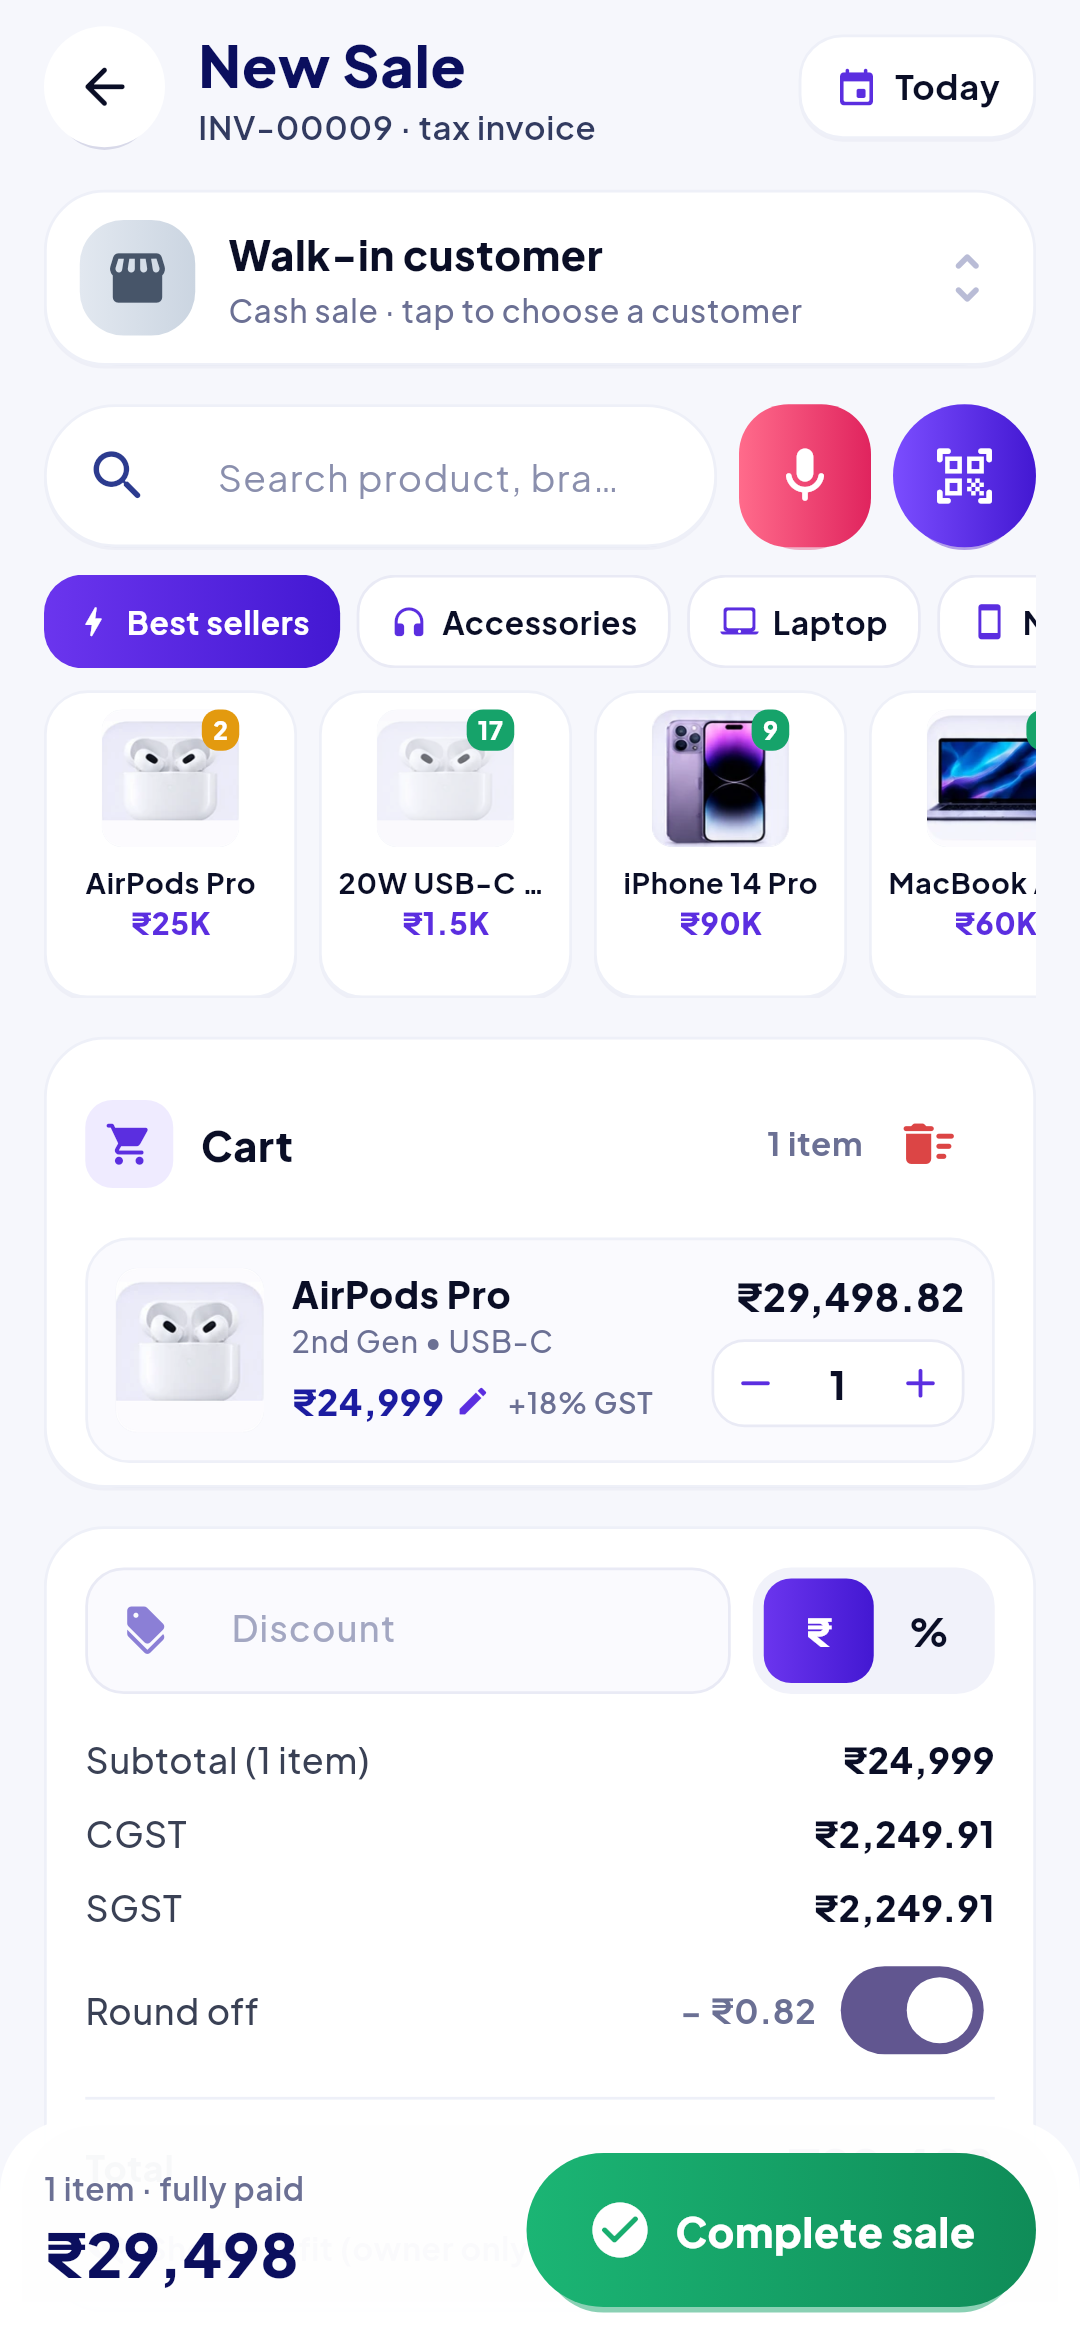
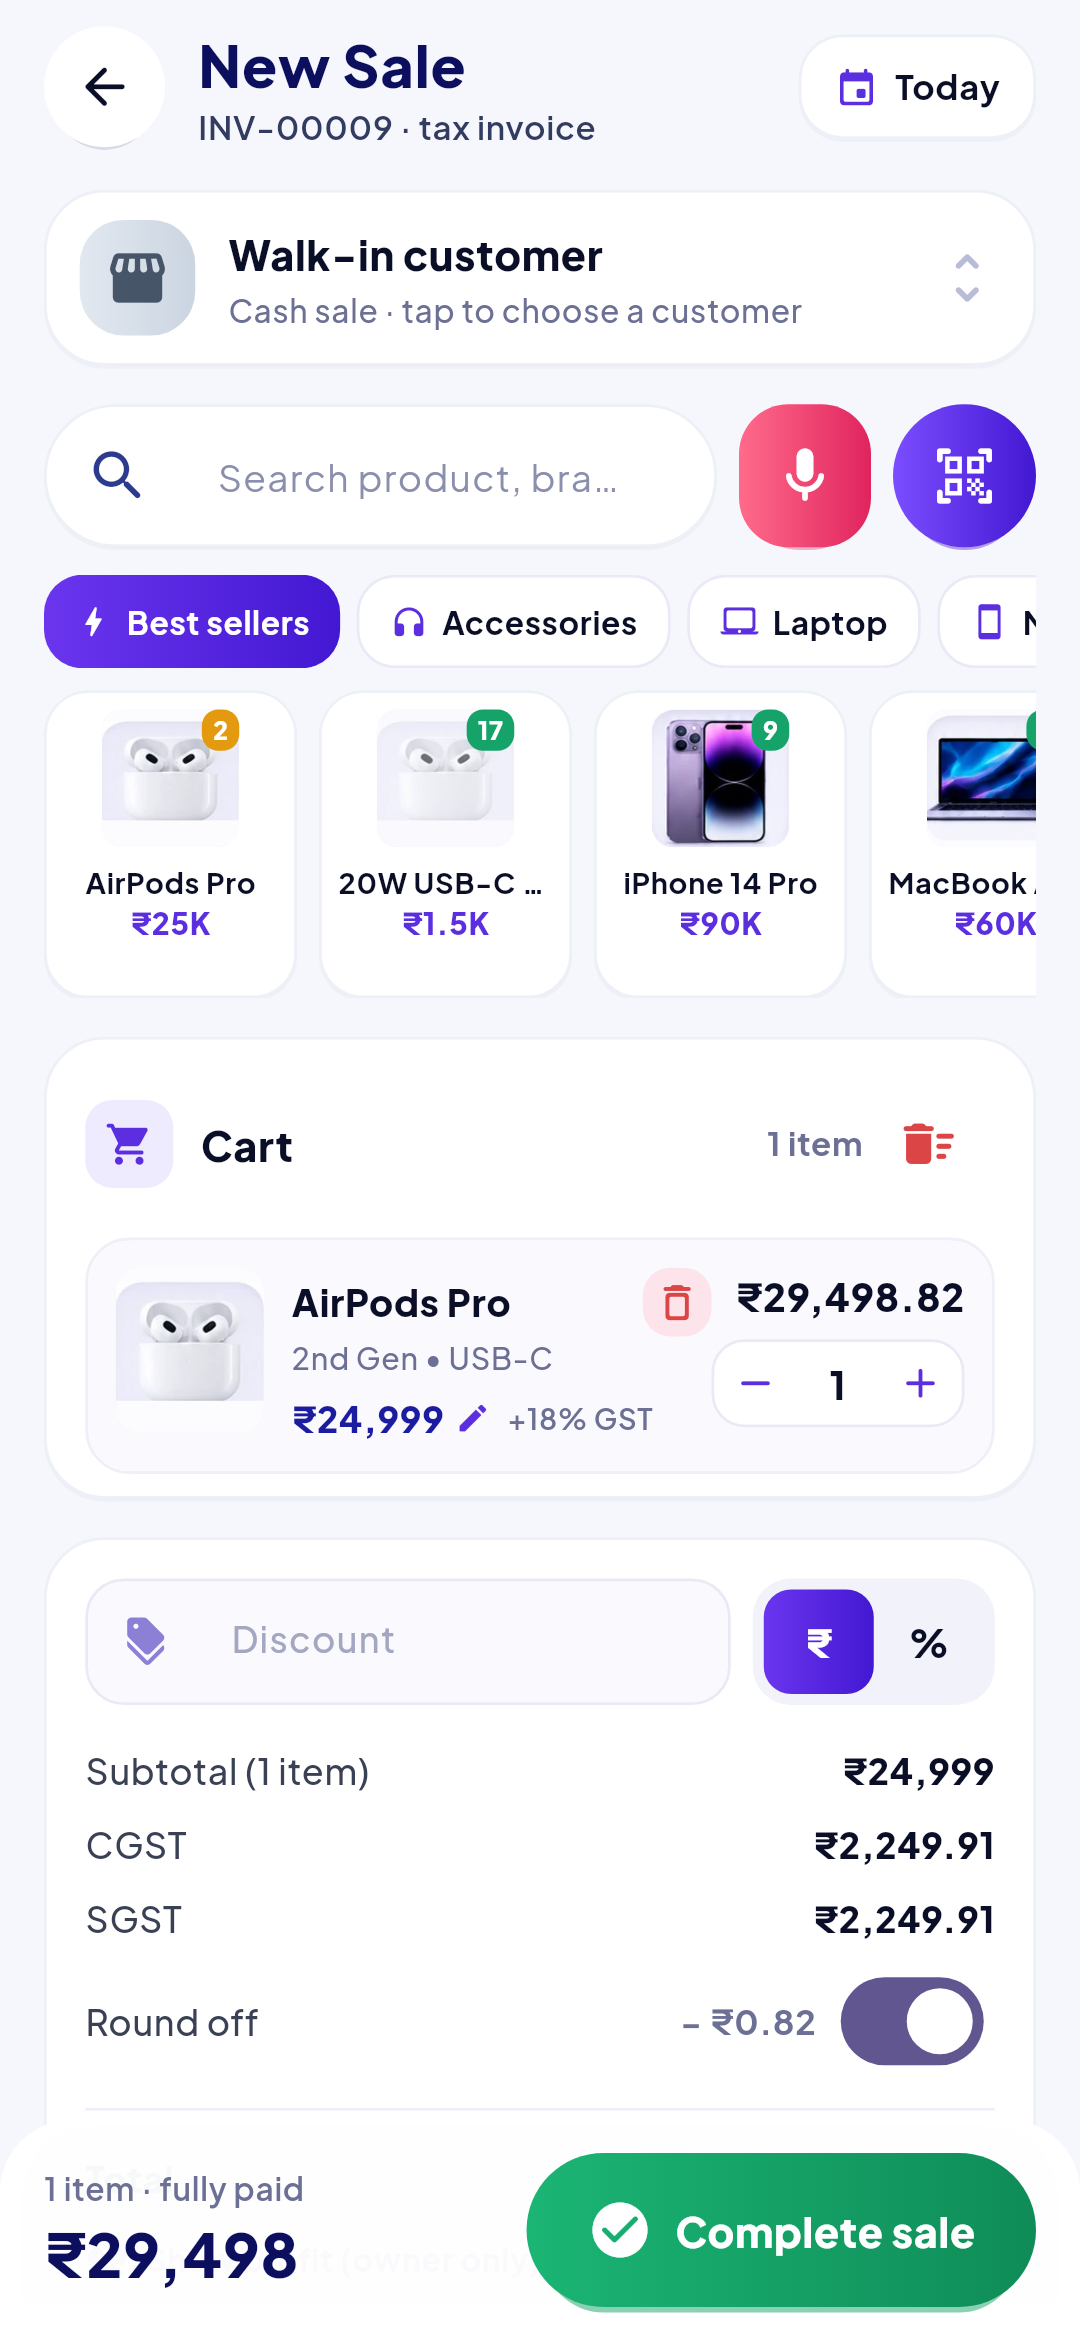
Sale: remove one product from the bill with a delete button and Undo, like purchase
Claude-Session: https://claude.ai/code/session_01TPz7VGxGWhSYt9uz1YHRun

diff --git a/lib/screens/sale_pos.dart b/lib/screens/sale_pos.dart
@@ -799,21 +799,21 @@ class _SaleFormState extends State<SaleForm> with WidgetsBindingObserver {
     setState(() => saving = true);
     try {
       Future<int> save() => Books.createSale(
-        editId: widget.editSaleId,
-        items: [for (final l in cart) ItemIn(l.id, l.qty, l.rate, l.serial.text, oppEnabled ? l.opp.text : null)],
-        customerId: customer == null ? null : asInt(customer!['id']),
-        paid: paid,
-        accountId: account,
-        discount: discount,
-        date: date,
-        note: note.text.trim().isEmpty ? null : note.text.trim(),
-        splits: payMode == 'split'
-            ? [
-                for (final sp in splits)
-                  if (sp.account != null && _parse(sp.ctrl) > 0) MapEntry(sp.account!, _parse(sp.ctrl))
-              ]
-            : null,
-      );
+            editId: widget.editSaleId,
+            items: [for (final l in cart) ItemIn(l.id, l.qty, l.rate, l.serial.text, oppEnabled ? l.opp.text : null)],
+            customerId: customer == null ? null : asInt(customer!['id']),
+            paid: paid,
+            accountId: account,
+            discount: discount,
+            date: date,
+            note: note.text.trim().isEmpty ? null : note.text.trim(),
+            splits: payMode == 'split'
+                ? [
+                    for (final sp in splits)
+                      if (sp.account != null && _parse(sp.ctrl) > 0) MapEntry(sp.account!, _parse(sp.ctrl))
+                  ]
+                : null,
+          );
       int id;
       try {
         id = await save();
@@ -1282,6 +1282,28 @@ class _SaleFormState extends State<SaleForm> with WidgetsBindingObserver {
     );
   }
 
+  /// Removes one product from the bill (with Undo).
+  void _removeLine(_Line l) {
+    final at = cart.indexOf(l);
+    if (at < 0) return;
+    HapticFeedback.mediumImpact();
+    setState(() => cart.removeAt(at));
+    final m = ScaffoldMessenger.of(context);
+    m.hideCurrentSnackBar();
+    m.showSnackBar(SnackBar(
+      behavior: SnackBarBehavior.floating,
+      duration: const Duration(seconds: 4),
+      content: Text('${l.p['name']} removed'),
+      action: SnackBarAction(
+        label: 'UNDO',
+        onPressed: () {
+          if (!mounted) return;
+          setState(() => cart.insert(at.clamp(0, cart.length), l));
+        },
+      ),
+    ));
+  }
+
   Widget _cartLine(_Line l) {
     final over = l.qty > l.stock;
     final isDevice = (l.p['category'] as String? ?? '').toLowerCase().contains(RegExp('mobile|laptop|tablet|desktop'));
@@ -1294,7 +1316,7 @@ class _SaleFormState extends State<SaleForm> with WidgetsBindingObserver {
         decoration: BoxDecoration(color: const Color(0xFFFDE4EA), borderRadius: BorderRadius.circular(16)),
         child: const Icon(Icons.delete_rounded, color: _red),
       ),
-      onDismissed: (_) => setState(() => cart.remove(l)),
+      onDismissed: (_) => _removeLine(l),
       child: Container(
         margin: const EdgeInsets.only(top: 10),
         padding: const EdgeInsets.all(10),
@@ -1309,7 +1331,20 @@ class _SaleFormState extends State<SaleForm> with WidgetsBindingObserver {
             const SizedBox(width: 10),
             Expanded(
               child: Column(crossAxisAlignment: CrossAxisAlignment.start, children: [
-                Text(l.p['name'] as String, maxLines: 1, overflow: TextOverflow.ellipsis, style: _j(13.5, FontWeight.w800, _ink)),
+                Row(children: [
+                  Expanded(
+                    child: Text(l.p['name'] as String, maxLines: 1, overflow: TextOverflow.ellipsis, style: _j(13.5, FontWeight.w800, _ink)),
+                  ),
+                  InkWell(
+                    borderRadius: BorderRadius.circular(10),
+                    onTap: () => _removeLine(l),
+                    child: Container(
+                      padding: const EdgeInsets.all(4),
+                      decoration: BoxDecoration(color: const Color(0xFFFDE4EA), borderRadius: BorderRadius.circular(10)),
+                      child: const Icon(Icons.delete_outline_rounded, size: 17, color: _red),
+                    ),
+                  ),
+                ]),
                 if ((l.p['variant'] as String? ?? '').isNotEmpty)
                   Text(l.p['variant'] as String, maxLines: 1, overflow: TextOverflow.ellipsis, style: _j(11, FontWeight.w500, _muted)),
                 const SizedBox(height: 4),
@@ -1336,13 +1371,11 @@ class _SaleFormState extends State<SaleForm> with WidgetsBindingObserver {
                 ),
                 child: Row(mainAxisSize: MainAxisSize.min, children: [
                   _qtyBtn(Icons.remove_rounded, () {
-                    setState(() {
-                      if (l.qty > 1) {
-                        l.qty--;
-                      } else {
-                        cart.remove(l);
-                      }
-                    });
+                    if (l.qty > 1) {
+                      setState(() => l.qty--);
+                    } else {
+                      _removeLine(l);
+                    }
                   }),
                   SizedBox(width: 30, child: Text('${l.qty}', textAlign: TextAlign.center, style: _j(14, FontWeight.w800, _ink))),
                   _qtyBtn(Icons.add_rounded, () {
